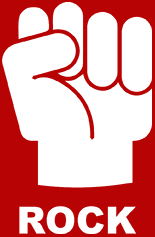
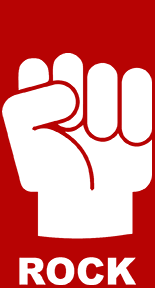
work on mobile image styling

diff --git a/styles.css b/styles.css
@@ -31,7 +31,6 @@
 }
 
 body {
-    /* min-width: 400px; */
     display: flex;
     align-items: center;
     flex-direction: column;
@@ -113,15 +112,11 @@ h3 {
     margin: 5rem auto 0 auto;
     opacity: 0;
     display: none;
-    /* padding-left: 5%; */
-    /* padding-right: 5%; */
-    /* background-color: green; */
 }
 
 .game-display {
-    /* display: flex; */
+    display: inline-block;
     justify-content: center;
-    /* background-color: blue; */
 }
 
 h1 {
@@ -301,10 +296,13 @@ h2, .score span {
         height: 1.75rem;
     }
 
-    #image1, #image2, #image3 { width: 40% }
-
+    #image1, #image2, #image3 {
+        height: 150px;
+    }
+    
     .game-display {
         display: flex;
+        flex-shrink: 1;
     }
 
     .rules {
@@ -316,7 +314,6 @@ h2, .score span {
         height: 100%;
         display: flex; 
         gap: 3rem;
-        /* justify-content: space-around; */
     }
 
     .rules img {
@@ -324,11 +321,9 @@ h2, .score span {
     }
 
     .gameplay {
-        flex: 1;
         width: 80%;
         flex-direction: column;
         align-items: center;
-        justify-content: flex-start;
         gap: 2rem;
         margin: 5rem 0rem 0rem 0;
     }
